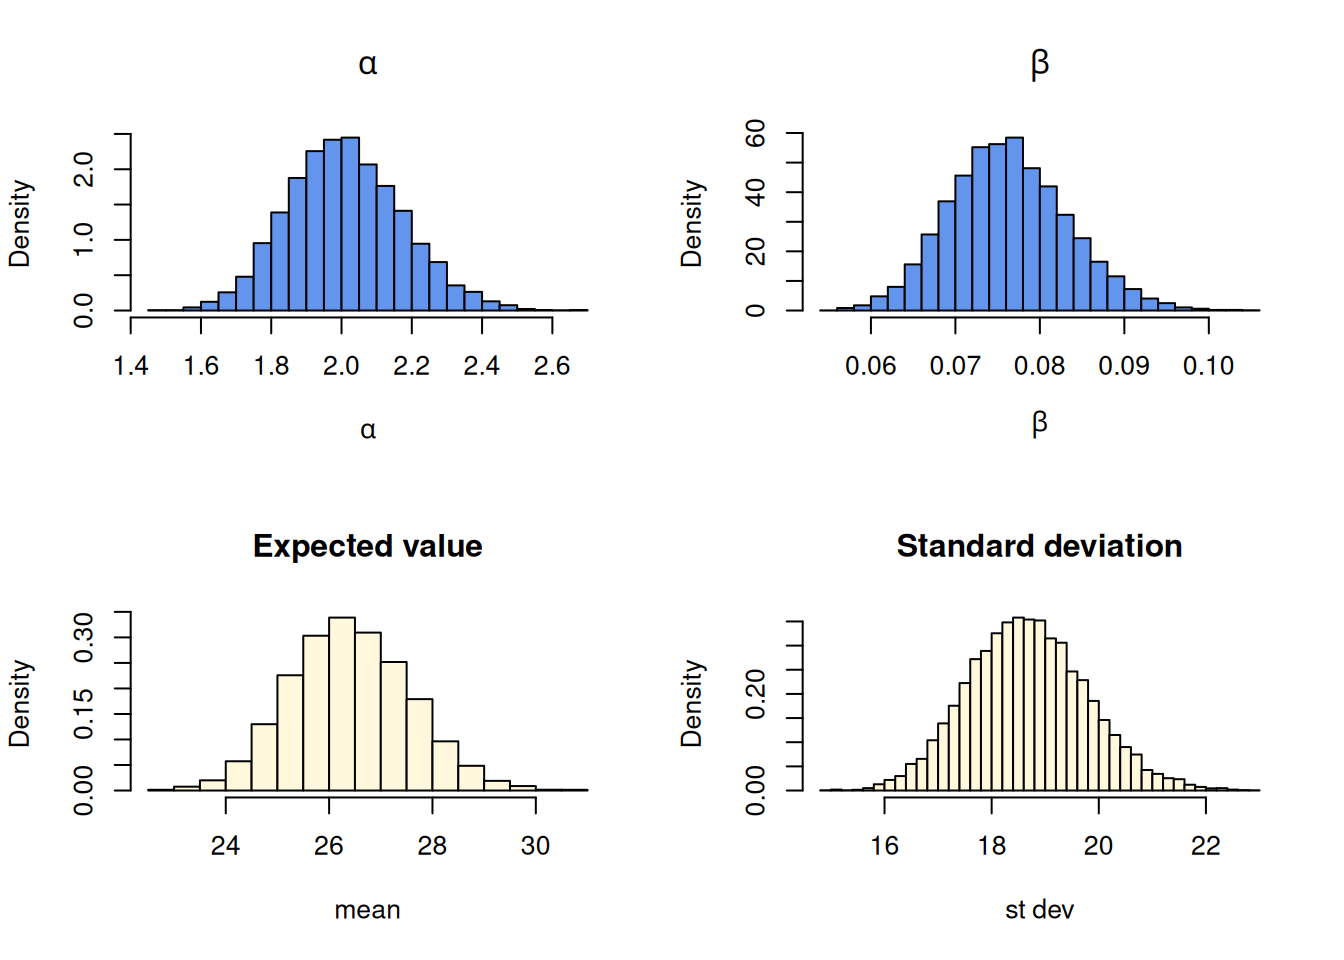
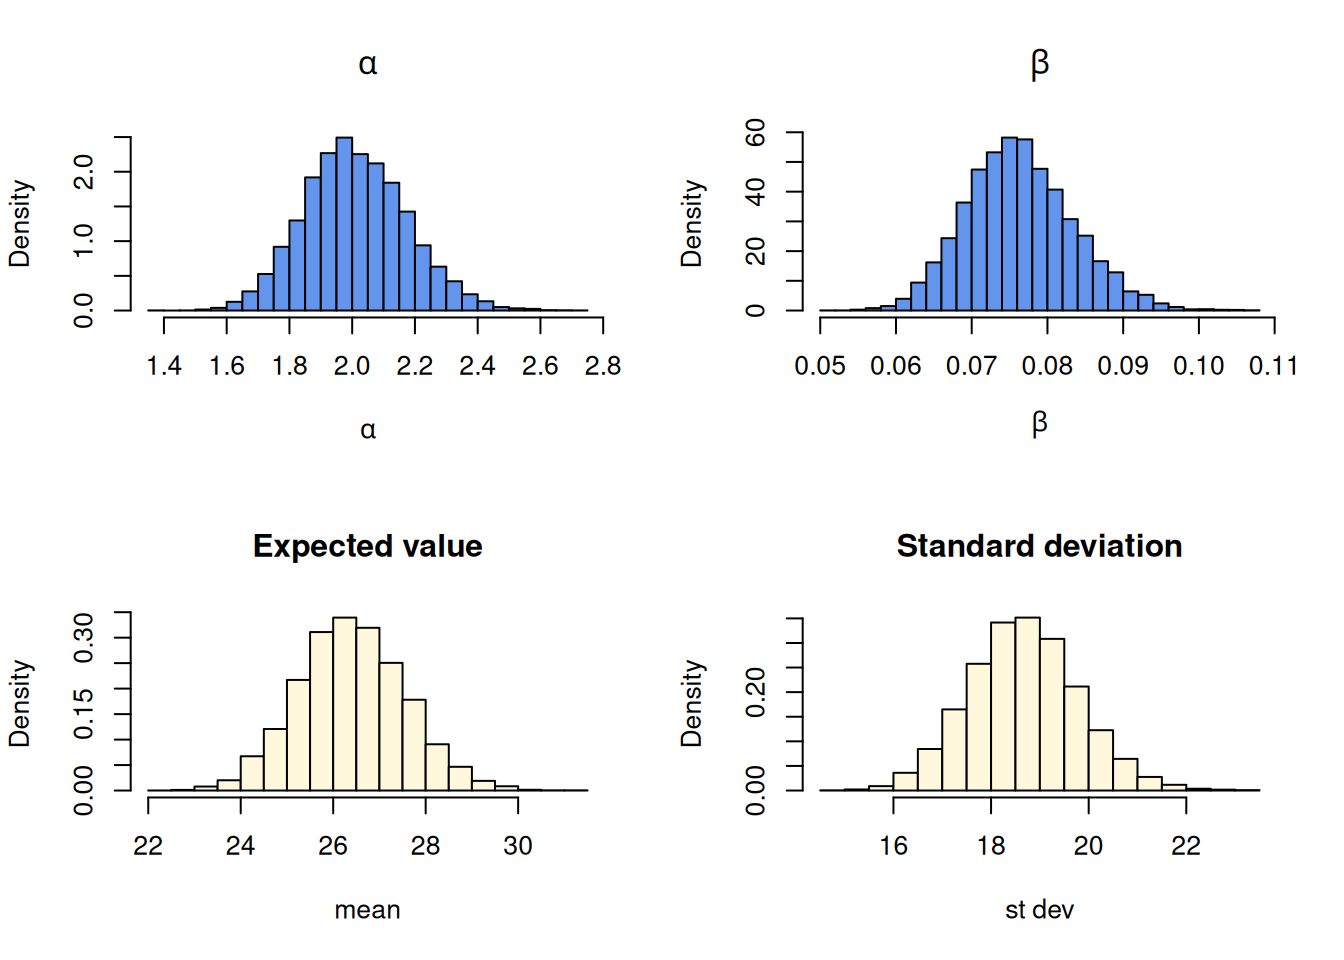
upd

diff --git a/docs/exercises/ch5solutions.html b/docs/exercises/ch5solutions.html
@@ -403,8 +403,8 @@ window.Quarto = {
 <p>Click on the arrow to see a solution.</p>
 <section id="exercise-5.1" class="level3">
 <h3 class="anchored" data-anchor-id="exercise-5.1">Exercise 5.1</h3>
-<p>The <code>BostonHousing</code> data is available in, for example, the <code>mlbench</code> R package. The dataset contains the median house price <code>medv</code> in 506 regions in Boston, {U.S.A.}, as well as data on several characteristics in each of the regions. In this exercise we will model the log of the median house price as a function of a subset of the covariates: <code>logmedv</code> where <code>logmedv</code> is the log of <code>medv</code>, <code>crim</code> is the per capita crime rate by town, <code>age</code> is the proportion of owner-occupied units built prior to 1940, and <code>ptratio</code> is the pupil-teacher ratio by town. Use the conjugate prior <span class="math display">\[\begin{align*}
-\beta_j \vert \sigma^2 &amp; \sim N(\boldsymbol{0},\sigma^2 10^2 \boldsymbol{I}_p)\\
+<p>The <code>BostonHousing</code> data is available in, for example, the <code>mlbench</code> R package. The dataset contains the median house price <code>medv</code> in 506 regions in Boston, U.S.A., as well as data on several characteristics in each of the regions. In this exercise we will model the log of the median house price as a function of a subset of the covariates: <code>logmedv</code> where <code>logmedv</code> is the log of <code>medv</code>, <code>crim</code> is the per capita crime rate by town, <code>age</code> is the proportion of owner-occupied units built prior to 1940, and <code>ptratio</code> is the pupil-teacher ratio by town. Use the conjugate prior <span class="math display">\[\begin{align*}
+\boldsymbol{\beta} \vert \sigma^2 &amp; \sim N(\boldsymbol{0},\sigma^2 10^2 \boldsymbol{I}_p)\\
 \sigma^2 &amp; \sim \mathrm{Inv}-\chi^2(3,0.5^2).
 \end{align*}\]</span> where <span class="math inline">\(\boldsymbol{I}_p\)</span> is a <span class="math inline">\(p \times p\)</span> identity matrix and <span class="math inline">\(p=4\)</span> is the number of regression coefficients including the intercept. </p>
 <p>Compute the marginal posterior distribution for each <span class="math inline">\(\beta_j, j=1,\ldots,4\)</span>, and plot each marginal density. Do not use simulation methods, but a computer is advisable for the matrix operations. Compute the posterior mean and a 95% equal-tail credible interval for each <span class="math inline">\(\beta_j\)</span>. Use the credible intervals to test the four separate hypotheses that <span class="math inline">\(\beta_j = 0\)</span> for <span class="math inline">\(j=1,\ldots,4\)</span>; that is, determine which of the covariates are important in the model.</p>

diff --git a/docs/exercises/ch5/regression_boston.html b/docs/exercises/ch5/regression_boston.html
@@ -379,8 +379,8 @@ window.Quarto = {
 
 <section id="exercise-5.1" class="level3">
 <h3 class="anchored" data-anchor-id="exercise-5.1">Exercise 5.1</h3>
-<p>The <code>BostonHousing</code> data is available in, for example, the <code>mlbench</code> R package. The dataset contains the median house price <code>medv</code> in 506 regions in Boston, {U.S.A.}, as well as data on several characteristics in each of the regions. In this exercise we will model the log of the median house price as a function of a subset of the covariates: <code>logmedv</code> where <code>logmedv</code> is the log of <code>medv</code>, <code>crim</code> is the per capita crime rate by town, <code>age</code> is the proportion of owner-occupied units built prior to 1940, and <code>ptratio</code> is the pupil-teacher ratio by town. Use the conjugate prior <span class="math display">\[\begin{align*}
-\beta_j \vert \sigma^2 &amp; \sim N(\boldsymbol{0},\sigma^2 10^2 \boldsymbol{I}_p)\\
+<p>The <code>BostonHousing</code> data is available in, for example, the <code>mlbench</code> R package. The dataset contains the median house price <code>medv</code> in 506 regions in Boston, U.S.A., as well as data on several characteristics in each of the regions. In this exercise we will model the log of the median house price as a function of a subset of the covariates: <code>logmedv</code> where <code>logmedv</code> is the log of <code>medv</code>, <code>crim</code> is the per capita crime rate by town, <code>age</code> is the proportion of owner-occupied units built prior to 1940, and <code>ptratio</code> is the pupil-teacher ratio by town. Use the conjugate prior <span class="math display">\[\begin{align*}
+\boldsymbol{\beta} \vert \sigma^2 &amp; \sim N(\boldsymbol{0},\sigma^2 10^2 \boldsymbol{I}_p)\\
 \sigma^2 &amp; \sim \mathrm{Inv}-\chi^2(3,0.5^2).
 \end{align*}\]</span> where <span class="math inline">\(\boldsymbol{I}_p\)</span> is a <span class="math inline">\(p \times p\)</span> identity matrix and <span class="math inline">\(p=4\)</span> is the number of regression coefficients including the intercept. </p>
 <p>Compute the marginal posterior distribution for each <span class="math inline">\(\beta_j, j=1,\ldots,4\)</span>, and plot each marginal density. Do not use simulation methods, but a computer is advisable for the matrix operations. Compute the posterior mean and a 95% equal-tail credible interval for each <span class="math inline">\(\beta_j\)</span>. Use the credible intervals to test the four separate hypotheses that <span class="math inline">\(\beta_j = 0\)</span> for <span class="math inline">\(j=1,\ldots,4\)</span>; that is, determine which of the covariates are important in the model.</p>

diff --git a/invalidate_freeze.py b/invalidate_freeze.py
@@ -1,0 +1,63 @@
+#!/usr/bin/env python3
+"""Drop stale entries from _freeze/ when an included file has changed.
+
+With `freeze: auto` Quarto re-executes a document only when the .qmd itself
+changes. Files pulled in with {{< include >}} (the book's exercise .tex files
+and the per-exercise .qmd files) are not checked, so edits to them never reach
+the site. This script hashes every document's includes, recursively, and
+removes the document's _freeze entry when the hash differs from the last run.
+Run by the pre-render hook in _quarto.yml, after `make resolve`.
+"""
+import hashlib
+import json
+import re
+import shutil
+from pathlib import Path
+
+ROOT = Path(__file__).resolve().parent
+FREEZE = ROOT / "_freeze"
+HASHES = FREEZE / "include-hashes.json"
+SKIP = {"docs", "_site", "_freeze", ".quarto", ".git"}
+INCLUDE_RE = re.compile(r"\{\{<\s*include\s+(\S+)\s*>\}\}")
+
+
+def includes(path, seen):
+    """All files included by path, recursively, in document order."""
+    for target in INCLUDE_RE.findall(path.read_text(errors="replace")):
+        inc = ROOT / target.lstrip("/") if target.startswith("/") else path.parent / target
+        inc = inc.resolve()
+        if inc in seen or not inc.is_file():
+            continue
+        seen.append(inc)
+        includes(inc, seen)
+    return seen
+
+
+def main():
+    if not FREEZE.is_dir():
+        return
+    old = json.loads(HASHES.read_text()) if HASHES.exists() else {}
+    new = {}
+    for qmd in sorted(ROOT.rglob("*.qmd")):
+        rel = qmd.relative_to(ROOT)
+        if rel.parts[0] in SKIP:
+            continue
+        incs = includes(qmd, [])
+        if not incs:
+            continue
+        digest = hashlib.sha256()
+        for inc in incs:
+            digest.update(str(inc.relative_to(ROOT)).encode())
+            digest.update(inc.read_bytes())
+        key = str(rel)
+        new[key] = digest.hexdigest()
+        frozen = FREEZE / rel.with_suffix("")
+        # A document seen for the first time is only recorded, not invalidated
+        if key in old and old[key] != new[key] and frozen.is_dir():
+            print(f"invalidate_freeze: includes of {key} changed, re-executing")
+            shutil.rmtree(frozen)
+    HASHES.write_text(json.dumps(new, indent=2) + "\n")
+
+
+if __name__ == "__main__":
+    main()
